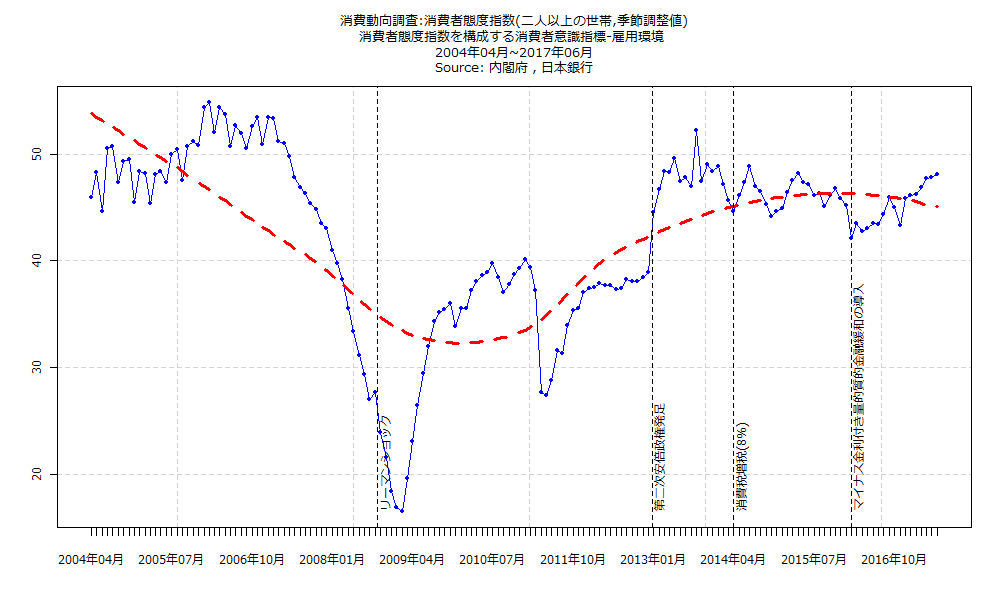
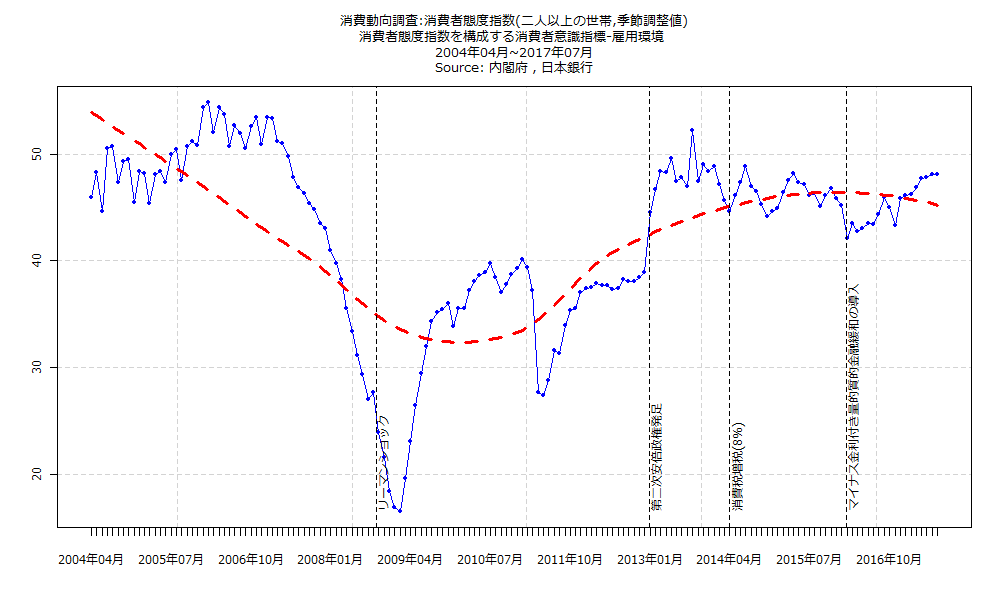
insertheader,selfcontained追記、mdファイル生成パート更新
insertheader,selfcontained追記、mdファイル生成パート更新

diff --git a/md/20170802-olive.md b/md/20170802-olive.md
@@ -1,15 +1,32 @@
 
 ---
-tags : [市場別時価総額,株式平均利回り,PER,PBR,日経平均株価]
-title : 市場別時価総額、株式平均利回り、PER･PBRおよび日経平均株価:2017年07月:株式平均利回り Average Yield -第一部-単純平均利回り　AverageYield:1.63
+tags : [消費者態度指数,消費動向調査]
+title : 消費動向調査:消費者態度指数(二人以上の世帯,季節調整値):前月差:2017年07月:消費者態度指数:0.5 , 消費者態度指数を構成する消費者意識指標-暮らし向き:1.2 , 消費者態度指数を構成する消費者意識指標-収入の増え方:0.1 , 消費者態度指数を構成する消費者意識指標-雇用環境:0 , 消費者態度指数を構成する消費者意識指標-耐久消費財の買い時判断:1 , その他の消費者意識指標-資産価値:1.8
 published : true
 ---
 
 
-<a href="http://knowledgevault.saecanet.com/charts/chartImages/equitySecurities1.png"><img border="0" src="http://knowledgevault.saecanet.com/charts/chartImages/equitySecurities1.png" width="100%" /></a>
+#### Summary
+
+- 消費者態度指数を構成する消費者意識指標-雇用環境の2004-04から2017-07における最小値は16.5
+- 消費者態度指数を構成する消費者意識指標-雇用環境の2004-04から2017-07における第1四分位数は37.7
+- 消費者態度指数を構成する消費者意識指標-雇用環境の2004-04から2017-07における中央値は45.25
+- 消費者態度指数を構成する消費者意識指標-雇用環境の2004-04から2017-07における平均値は42.46875
+- 消費者態度指数を構成する消費者意識指標-雇用環境の2004-04から2017-07における第3四分位数は48.1
+- 消費者態度指数を構成する消費者意識指標-雇用環境の2004-04から2017-07における最大値は54.8
+- 消費者態度指数を構成する消費者意識指標-雇用環境の2004-04から2017-07におけるトリムド平均値は43.41
+- 消費者態度指数を構成する消費者意識指標-雇用環境の2004-04から2017-07におけるウィンザライズド平均値は42.94
+- 消費者態度指数を構成する消費者意識指標-雇用環境の2004-04から2017-07におけるミッドレンジは35.65
+- 消費者態度指数を構成する消費者意識指標-雇用環境の平均値が最も高い政権は安倍晋三(1)政権の50.17
+- 消費者態度指数を構成する消費者意識指標-雇用環境の平均値が最も低い政権は麻生太郎政権の24.77
+
+<a href="http://knowledgevault.saecanet.com/charts/chartImages/consumerConfidenceSurvey1.png"><img border="0" src="http://knowledgevault.saecanet.com/charts/chartImages/consumerConfidenceSurvey1.png" width="100%" /></a>
 
 
-<a href="http://knowledgevault.saecanet.com/charts/chartImages/equitySecurities2.png"><img border="0" src="http://knowledgevault.saecanet.com/charts/chartImages/equitySecurities2.png" width="100%" /></a>
+<a href="http://knowledgevault.saecanet.com/charts/chartImages/consumerConfidenceSurvey2.png"><img border="0" src="http://knowledgevault.saecanet.com/charts/chartImages/consumerConfidenceSurvey2.png" width="100%" /></a>
+
+
+<a href="http://knowledgevault.saecanet.com/charts/chartImages/consumerConfidenceSurvey3.png"><img border="0" src="http://knowledgevault.saecanet.com/charts/chartImages/consumerConfidenceSurvey3.png" width="100%" /></a>
 
 
 ***
@@ -18,7 +35,7 @@ published : true
 #### 内閣総理大臣毎の基本統計量
 
 
-- 株式平均利回り Average Yield -第一部-有配会社平均利回りAve. Yieldof Div. PayingCos.
+- 消費者態度指数を構成する消費者意識指標-雇用環境
 
 
 <table id = 'amcc' width = '100%'>
@@ -36,103 +53,73 @@ published : true
  </thead>
 <tbody>
   <tr>
-   <td style="text-align:left;"> 小渕恵三 </td>
-   <td style="text-align:right;"> 0.88 </td>
-   <td style="text-align:right;"> 0.93 </td>
-   <td style="text-align:right;"> 1.02 </td>
-   <td style="text-align:right;"> 1.07 </td>
-   <td style="text-align:right;"> 1.24 </td>
-   <td style="text-align:right;"> 1.36 </td>
-   <td style="text-align:left;"> 1998年08月~2000年04月 </td>
-  </tr>
-  <tr>
-   <td style="text-align:left;"> 森喜朗(1-2) </td>
-   <td style="text-align:right;"> 0.88 </td>
-   <td style="text-align:right;"> 1 </td>
-   <td style="text-align:right;"> 1.08 </td>
-   <td style="text-align:right;"> 1.06 </td>
-   <td style="text-align:right;"> 1.14 </td>
-   <td style="text-align:right;"> 1.19 </td>
-   <td style="text-align:left;"> 2000年05月~2001年04月 </td>
-  </tr>
-  <tr>
-   <td style="text-align:left;"> 小泉純一郎(1-3) </td>
-   <td style="text-align:right;"> 0.9 </td>
-   <td style="text-align:right;"> 1.15 </td>
-   <td style="text-align:right;"> 1.26 </td>
-   <td style="text-align:right;"> 1.25 </td>
-   <td style="text-align:right;"> 1.37 </td>
-   <td style="text-align:right;"> 1.59 </td>
-   <td style="text-align:left;"> 2001年05月~2006年09月 </td>
-  </tr>
-  <tr>
    <td style="text-align:left;"> 安倍晋三(1) </td>
-   <td style="text-align:right;"> 1.15 </td>
-   <td style="text-align:right;"> 1.18 </td>
-   <td style="text-align:right;"> 1.21 </td>
-   <td style="text-align:right;"> 1.23 </td>
-   <td style="text-align:right;"> 1.26 </td>
-   <td style="text-align:right;"> 1.38 </td>
+   <td style="text-align:right;"> 45.4 </td>
+   <td style="text-align:right;"> 47.57 </td>
+   <td style="text-align:right;"> 50.95 </td>
+   <td style="text-align:right;"> 50.17 </td>
+   <td style="text-align:right;"> 52.78 </td>
+   <td style="text-align:right;"> 53.4 </td>
    <td style="text-align:left;"> 2006年10月~2007年09月 </td>
   </tr>
   <tr>
    <td style="text-align:left;"> 福田康夫 </td>
-   <td style="text-align:right;"> 1.38 </td>
-   <td style="text-align:right;"> 1.61 </td>
-   <td style="text-align:right;"> 1.71 </td>
-   <td style="text-align:right;"> 1.72 </td>
-   <td style="text-align:right;"> 1.82 </td>
-   <td style="text-align:right;"> 2.16 </td>
+   <td style="text-align:right;"> 27 </td>
+   <td style="text-align:right;"> 30.65 </td>
+   <td style="text-align:right;"> 36.85 </td>
+   <td style="text-align:right;"> 36.18 </td>
+   <td style="text-align:right;"> 41.5 </td>
+   <td style="text-align:right;"> 44.8 </td>
    <td style="text-align:left;"> 2007年10月~2008年09月 </td>
   </tr>
   <tr>
    <td style="text-align:left;"> 麻生太郎 </td>
-   <td style="text-align:right;"> 1.94 </td>
-   <td style="text-align:right;"> 2.02 </td>
-   <td style="text-align:right;"> 2.52 </td>
-   <td style="text-align:right;"> 2.4 </td>
-   <td style="text-align:right;"> 2.62 </td>
-   <td style="text-align:right;"> 2.8 </td>
+   <td style="text-align:right;"> 16.5 </td>
+   <td style="text-align:right;"> 19.3 </td>
+   <td style="text-align:right;"> 23.5 </td>
+   <td style="text-align:right;"> 24.77 </td>
+   <td style="text-align:right;"> 30.05 </td>
+   <td style="text-align:right;"> 35.2 </td>
    <td style="text-align:left;"> 2008年10月~2009年09月 </td>
   </tr>
   <tr>
    <td style="text-align:left;"> 鳩山由紀夫 </td>
-   <td style="text-align:right;"> 1.87 </td>
-   <td style="text-align:right;"> 1.97 </td>
-   <td style="text-align:right;"> 2.08 </td>
-   <td style="text-align:right;"> 2.05 </td>
-   <td style="text-align:right;"> 2.11 </td>
-   <td style="text-align:right;"> 2.25 </td>
+   <td style="text-align:right;"> 33.8 </td>
+   <td style="text-align:right;"> 35.5 </td>
+   <td style="text-align:right;"> 36 </td>
+   <td style="text-align:right;"> 36.56 </td>
+   <td style="text-align:right;"> 38.1 </td>
+   <td style="text-align:right;"> 38.9 </td>
    <td style="text-align:left;"> 2009年10月~2010年06月 </td>
   </tr>
   <tr>
    <td style="text-align:left;"> 菅直人 </td>
-   <td style="text-align:right;"> 1.86 </td>
-   <td style="text-align:right;"> 1.98 </td>
-   <td style="text-align:right;"> 2.08 </td>
-   <td style="text-align:right;"> 2.06 </td>
-   <td style="text-align:right;"> 2.15 </td>
-   <td style="text-align:right;"> 2.22 </td>
+   <td style="text-align:right;"> 27.4 </td>
+   <td style="text-align:right;"> 31.45 </td>
+   <td style="text-align:right;"> 37.2 </td>
+   <td style="text-align:right;"> 35.22 </td>
+   <td style="text-align:right;"> 39 </td>
+   <td style="text-align:right;"> 40.1 </td>
    <td style="text-align:left;"> 2010年07月~2011年09月 </td>
   </tr>
   <tr>
    <td style="text-align:left;"> 野田佳彦 </td>
-   <td style="text-align:right;"> 2.02 </td>
-   <td style="text-align:right;"> 2.17 </td>
-   <td style="text-align:right;"> 2.26 </td>
-   <td style="text-align:right;"> 2.25 </td>
-   <td style="text-align:right;"> 2.33 </td>
-   <td style="text-align:right;"> 2.42 </td>
+   <td style="text-align:right;"> 35.3 </td>
+   <td style="text-align:right;"> 37.35 </td>
+   <td style="text-align:right;"> 37.7 </td>
+   <td style="text-align:right;"> 37.49 </td>
+   <td style="text-align:right;"> 38.1 </td>
+   <td style="text-align:right;"> 38.9 </td>
    <td style="text-align:left;"> 2011年10月~2012年12月 </td>
   </tr>
   <tr>
    <td style="text-align:left;"> 安倍晋三(2,3) </td>
-   <td style="text-align:right;"> 1.42 </td>
-   <td style="text-align:right;"> 1.56 </td>
-   <td style="text-align:right;"> 1.68 </td>
-   <td style="text-align:right;"> 1.67 </td>
-   <td style="text-align:right;"> 1.75 </td>
-   <td style="text-align:right;"> 2.01 </td>
+   <td style="text-align:right;"> 42.1 </td>
+   <td style="text-align:right;"> 45.05 </td>
+   <td style="text-align:right;"> 46.4 </td>
+   <td style="text-align:right;"> 46.34 </td>
+   <td style="text-align:right;"> 47.6 </td>
+   <td style="text-align:right;"> 52.2 </td>
    <td style="text-align:left;"> 2013年01月~2017年07月 </td>
   </tr>
 </tbody>
@@ -141,7 +128,7 @@ published : true
 ## データテーブル･チャート
 
 
-Link : [データテーブル･チャート](http://knowledgevault.saecanet.com/charts/am-consulting.co.jp-equitySecurities.html)
+Link : [データテーブル･チャート](http://knowledgevault.saecanet.com/charts/am-consulting.co.jp-consumerConfidenceSurvey.html)
 
 
-<iframe src="http://knowledgevault.saecanet.com/charts/am-consulting.co.jp-equitySecurities.html" width="100%" height="800px"></iframe>
+<iframe src="http://knowledgevault.saecanet.com/charts/am-consulting.co.jp-consumerConfidenceSurvey.html" width="100%" height="800px"></iframe>
